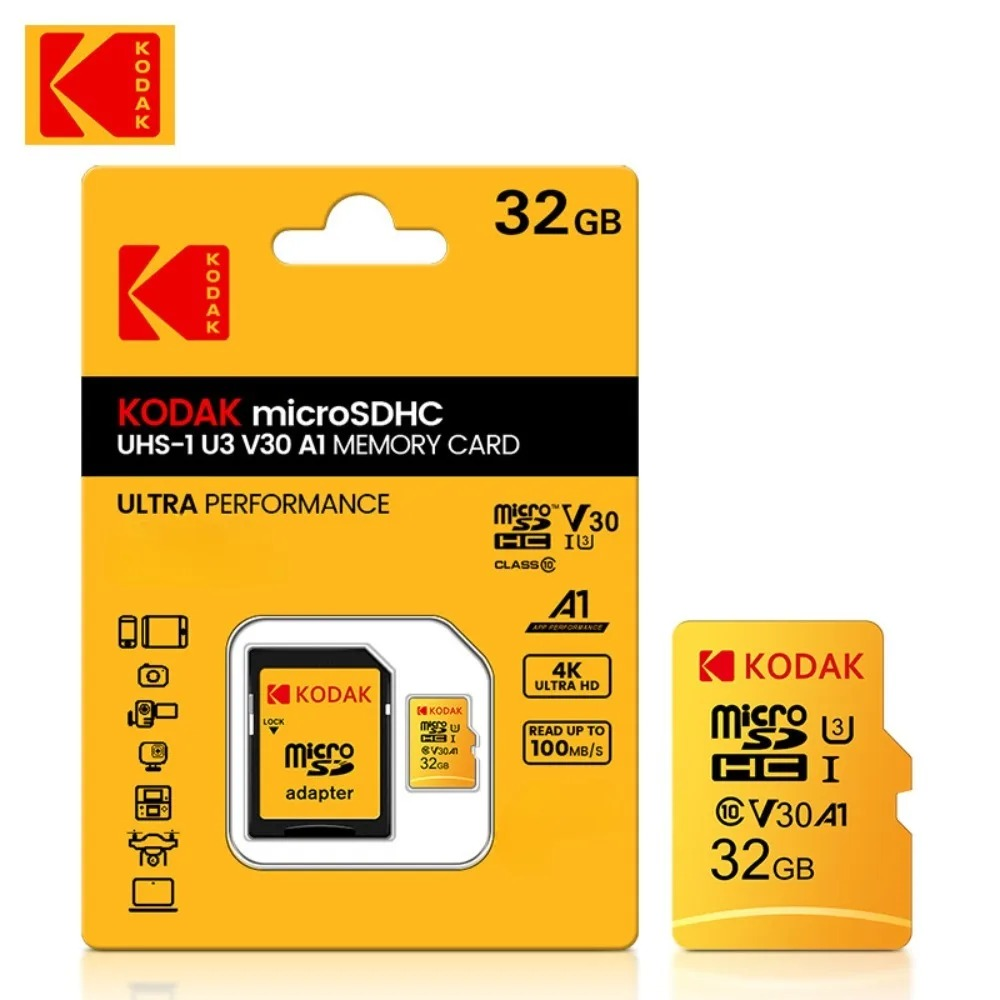
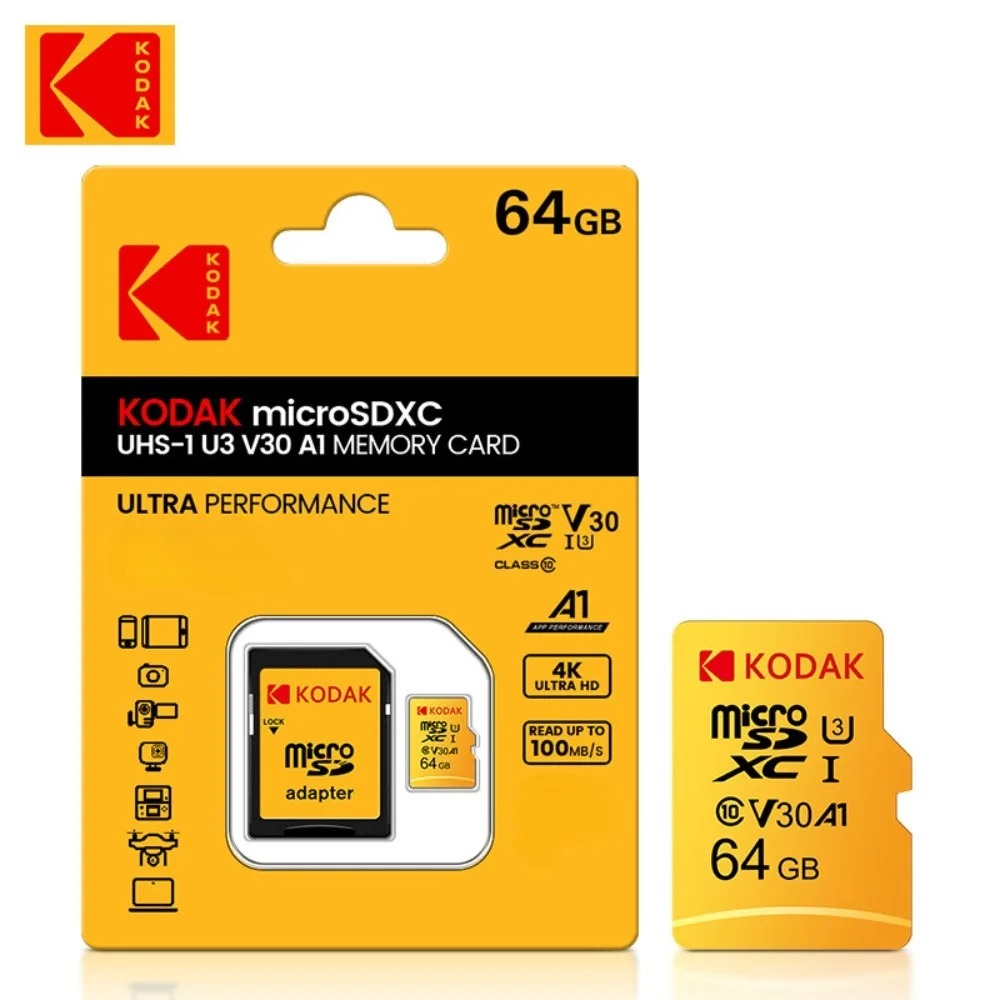
switching microsd images

diff --git a/produits/kodak-microsd.html b/produits/kodak-microsd.html
@@ -61,7 +61,7 @@
     <h1>Kodak Micro SD 64Go</h1>
     <p class="info">Catégorie : Technologie</p>
     <div class="gallery">
-      <img src="../images/kodak-microsd/image-2.png" alt="Kodak MicroSD photo 3" />
+      <img src="../images/kodak-microsd/image-0.png" alt="Kodak MicroSD photo 3" />
     </div>
     <p class="price">7,000 FCFA</p>
     <a class="btn" href="../formulaire.html?product=Kodak+MicroSD+64Go&price=7000">Commander</a>
